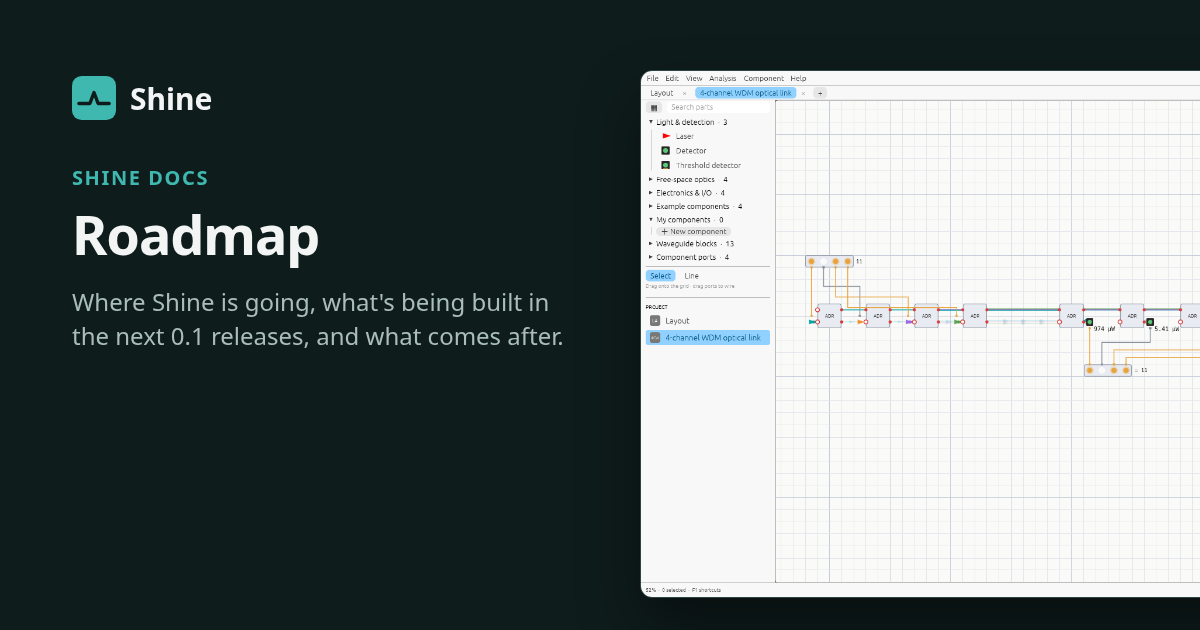
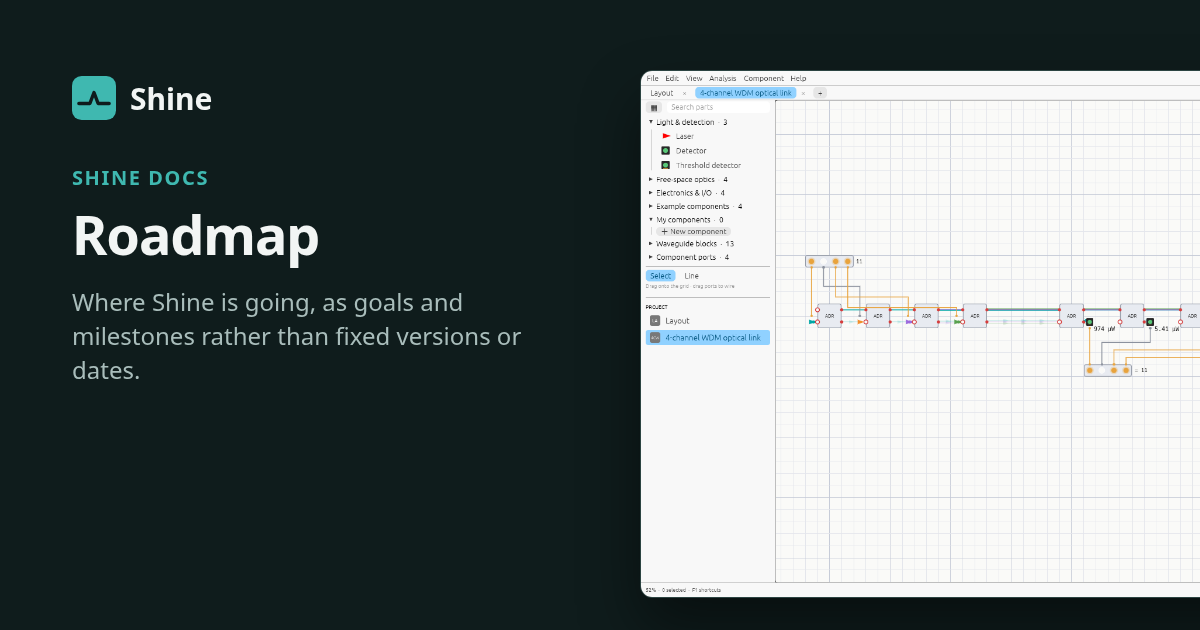
Roadmap as goals and milestones, without versions or dates

Changed region(s): [[0.0617, 0.4524, 0.4625, 0.573], [0.0617, 0.573, 0.1233, 0.6032]]

diff --git a/docs/roadmap.md b/docs/roadmap.md
@@ -1,6 +1,6 @@
 ---
 title: Roadmap
-description: Where Shine is going, what's being built in the next 0.1 releases, and what comes after.
+description: Where Shine is going, as goals and milestones rather than fixed versions or dates.
 order: 14
 ---
 
@@ -8,15 +8,14 @@ order: 14
 
 Shine today is a sound simulator for learning, teaching and early design: exact
 interference and resonance, reusable components, and the electronics around them. The
-roadmap is about making it useful for engineers designing real photonic systems, in this
-order: answer the questions engineers ask, get the numbers right, get the data out, then
-connect to real foundry models. Releases stay small: each 0.1.x patch adds a step or two,
-and the minor version moves to 0.2 only once the 0.1 line is complete.
+goal is to make it useful for engineers designing real photonic systems.
 
-What's already shipped is in the [Changelog](changelog.md). Ideas and requests are welcome
-as [GitHub issues](https://github.com/ash-hashtag/shine/issues).
+This is a list of goals and milestones, not a timeline. Items land in whichever release
+is next once they're ready, and anyone is welcome to pick one up. What each release
+actually contains is in the [Changelog](changelog.md). Ideas and requests are welcome as
+[GitHub issues](https://github.com/ash-hashtag/shine/issues).
 
-## 0.1.0: released 2026-11-09
+## Foundations (done)
 
 - [x] One editor for free-space optics, component boxes, waveguides and signals
 - [x] Exact frequency-domain solver: interference, resonance, feedback loops
@@ -24,44 +23,37 @@ as [GitHub issues](https://github.com/ash-hashtag/shine/issues).
 - [x] Coherent and independent light sources; real and false colours
 - [x] Desktop (Linux, Windows, macOS) and browser builds; MCP server; documentation
 
-## 0.1.x: useful to engineers (next)
+## Milestone: answer the questions engineers ask
 
-### 0.1.1
-
-- [x] **Wavelength sweeps in the editor**: transmission versus wavelength, in dB, for any
-      design, from a chosen source or input to chosen outputs
+- [x] **Wavelength sweeps**: transmission versus wavelength for any design
 - [x] **Parameter sweeps**: sweep a part's parameter and plot the outputs
-- [x] **Real units**: laser power in mW or dBm, readings in mW and dBm, losses in dB,
-      insertion loss and extinction ratio readouts
-
-### 0.1.2
-
+- [x] **Real units**: power in mW and dBm, losses in dB, insertion loss and extinction
+      ratio readouts
 - [ ] **Export**: sweep data as CSV (done), readouts as CSV, plots and the canvas as images
-- [ ] **Release basics**: an About box with the version, release notes, and instructions
-      for unsigned binaries
 
-### 0.1.3
+## Milestone: get the numbers right
 
 - [ ] **Waveguide physics**: group index and dispersion, propagation loss in dB/cm,
       wavelength-dependent coupling, so ring spacing and delays match real devices
-
-### 0.1.4
-
 - [ ] **Validation page**: simulated results plotted against textbook formulas (rings,
       MZI, Fabry–Pérot, couplers, the DFT mesh)
+- [ ] **Two polarisations** per port
 
-## 0.2: connect to real designs
+## Milestone: connect to real designs
 
-- **S-parameter import** (Touchstone `.sNp`): use foundry kit (PDK) and FDTD results as
-  black-box components
-- **Command-line simulation**: `shine simulate project.shine --sweep … --csv`, for scripts
-  and CI
-- **Monte Carlo**: how a design holds up to fabrication variation
-- **Two polarisations** per port
+- [ ] **S-parameter import** (Touchstone `.sNp`): use foundry kit (PDK) and FDTD results
+      as black-box components
+- [ ] **Command-line simulation**: `shine simulate project.shine --sweep … --csv`, for
+      scripts and CI
+- [ ] **Monte Carlo**: how a design holds up to fabrication variation
 
-## Later
+## Milestone: easy to adopt
+
+- [ ] An About box with the version and release notes
+- [ ] Instructions for unsigned binaries, then signed and notarised desktop builds
+
+## Ideas for later
 
 - Layout export (GDS), for example through gdsfactory
 - Time-domain simulation: modulation, bandwidth, eye diagrams and noise
-- Signed and notarised desktop builds
 - A photon-counting and few-photon (quantum) teaching mode

diff --git a/docs/development.md b/docs/development.md
@@ -74,14 +74,15 @@ To release, once a version is final:
 ```sh
 # 1. Cargo.toml's `version` is already the next one (e.g. 0.1.2) while it's built,
 #    and docs/changelog.md has its section ("## 0.1.2 (unreleased)"): date it
-#    ("## 0.1.2 (2026-11-20)") and tick it off on the roadmap
+#    ("## 0.1.2 (2026-11-20)")
 # 2. commit, push, then tag that commit and push the tag
 git tag v0.1.2
 git push origin v0.1.2
 ```
 
-Versions grow slowly: patch releases (0.1.1, 0.1.2…) carry each step, and the minor
-version changes only when the roadmap's line for it is complete.
+Versions grow slowly: patch releases (0.1.1, 0.1.2…) carry whatever has landed, and the
+minor version changes only for a larger step. The roadmap has goals and milestones, not
+versions or dates.
 
 The workflow stops if the tag doesn't match the version in `Cargo.toml` or the changelog
 has no section for it, and uses that section as the release notes.
